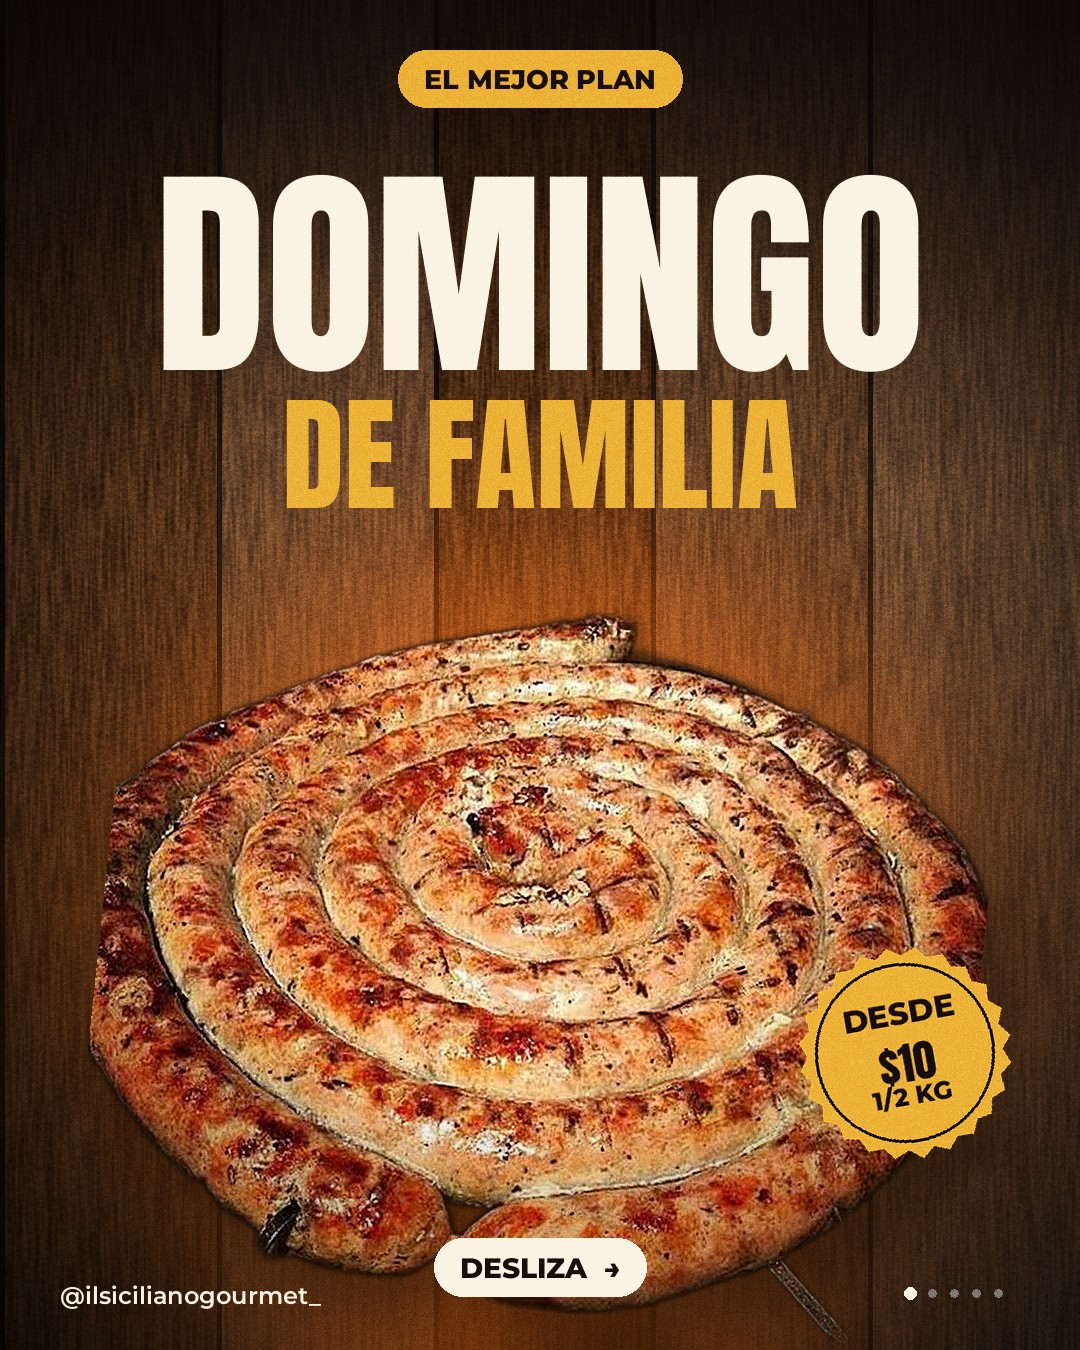
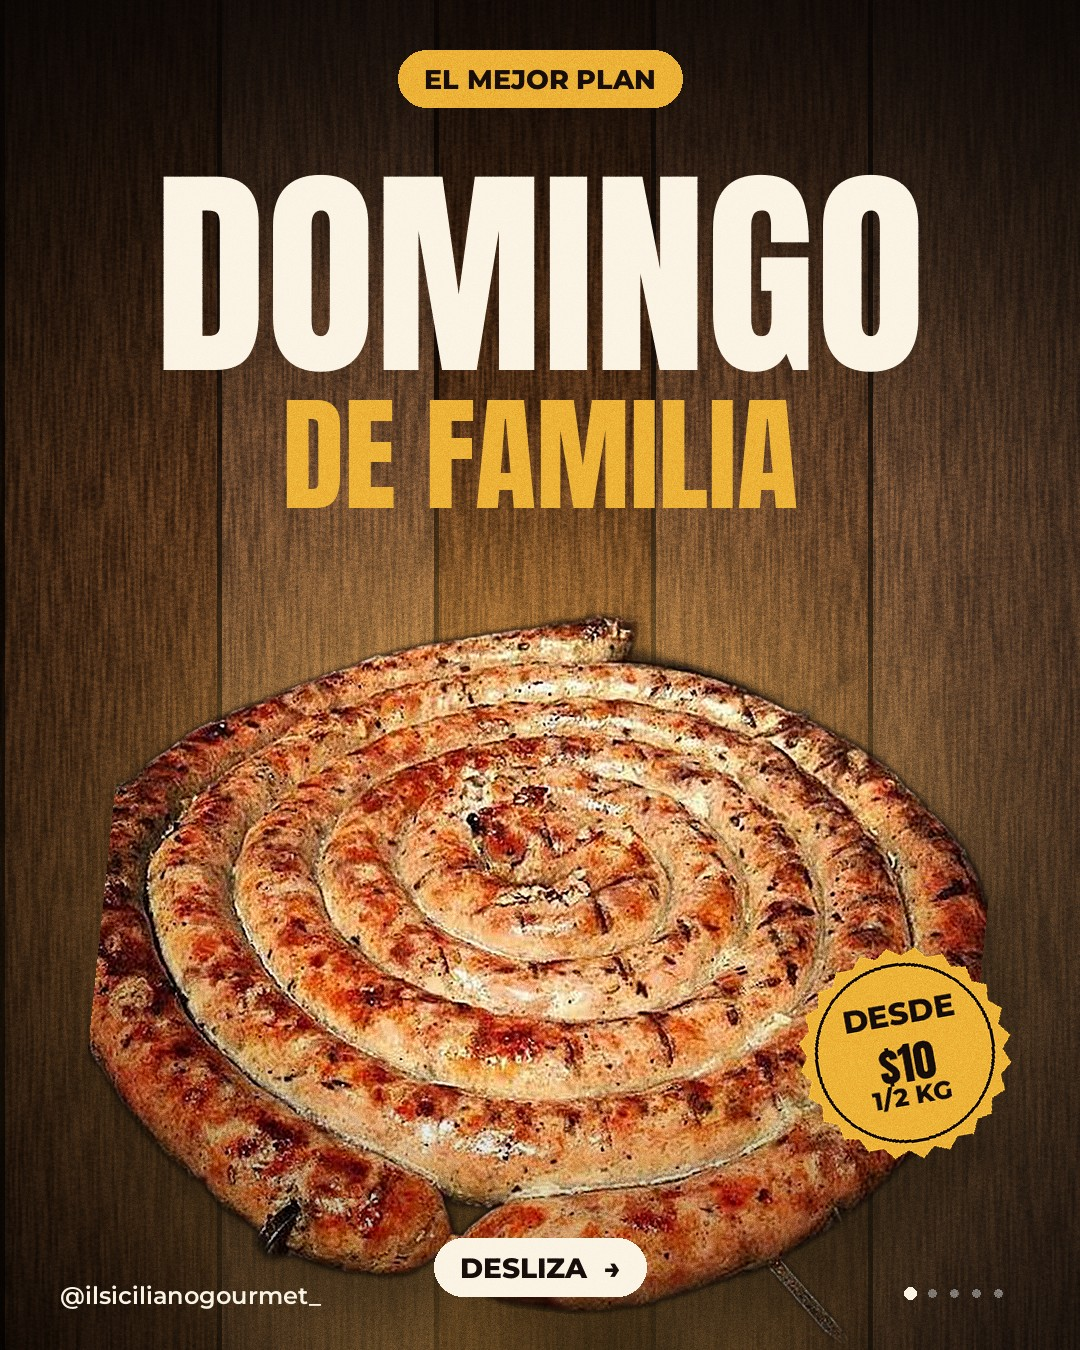
Día 5: tip de asar la espiral con diagramas
Claude-Session: https://claude.ai/code/session_01BoapLYkqJjC4bybfaGWR3T

Changed region(s): [[0.275, 0.4044, 0.7639, 0.5289]]

diff --git a/disenos.py b/disenos.py
@@ -116,7 +116,7 @@ def espiral_cutout(ancho_px, ang=-6):
 def portada_parrilla(l1, l2, etiqueta, sello, total, fondo="parrilla"):
     """Portada: título gigante sobre parrilla con la espiral como protagonista."""
     T, h, o = g.tt(), H(), oy()
-    b = parrilla_bg(h, ang=-14 if not T else -12) if fondo == "parrilla" else mesa_bg(h, 4)
+    b = parrilla_bg(h, ang=-14 if not T else -12) if fondo == "parrilla" else (teal_bg(h) if fondo == "teal" else mesa_bg(h, 4))
     if fondo == "parrilla":
         humo(b, h, 0, int(h * 0.3))
     d = ImageDraw.Draw(b)
@@ -124,13 +124,14 @@ def portada_parrilla(l1, l2, etiqueta, sello, total, fondo="parrilla"):
     cy_s = int(h * (0.615 if T else 0.71))
     glow = capa() if not T else Image.new("RGBA", (W, h), (0, 0, 0, 0))
     glow = Image.new("RGBA", (W, h), (0, 0, 0, 0))
-    ImageDraw.Draw(glow).ellipse((60, cy_s - 480, W - 60, cy_s + 480), fill=(255, 110, 20, 140))
+    gcol = {"parrilla": (255, 110, 20, 140), "mesa": (255, 190, 90, 110)}.get(fondo, (210, 255, 240, 95))
+    ImageDraw.Draw(glow).ellipse((60, cy_s - 480, W - 60, cy_s + 480), fill=gcol)
     b.alpha_composite(glow.filter(ImageFilter.GaussianBlur(110)))
     sp = espiral_cutout(960 if T else 880)
     pegar_producto(b, sp, (W // 2 - sp.width // 2, cy_s - sp.height // 2))
     viñeta(b, h)
     # oscurece la zona del título para que se lea
-    b.alpha_composite(degradado_v(W, h, 0, int(h * 0.36), (10, 6, 5), 190, 0))
+    b.alpha_composite(degradado_v(W, h, 0, int(h * 0.36), (10, 6, 5) if fondo != "teal" else (2, 28, 28), 190, 0))
     d = ImageDraw.Draw(b)
     pastilla(d, 0, o + (28 if T else 50), etiqueta, mont(30 if T else 27, "ExtraBold"), DORADO, OSCURO, centrado=True)
     tam = 330 if T else 225
@@ -138,7 +139,10 @@ def portada_parrilla(l1, l2, etiqueta, sello, total, fondo="parrilla"):
         tam -= 6
     centrar(d, o + (100 if T else 105), l1, anton(tam), CREMA)
     y2 = o + (100 if T else 105) + int(tam * 1.13)
-    centrar(d, y2, l2, anton(int(tam * 0.56)), DORADO)
+    t2 = int(tam * 0.56)
+    while ancho(d, l2, anton(t2)) > W - 90:
+        t2 -= 4
+    centrar(d, y2, l2, anton(t2), DORADO)
     sticker(b, sello, 890 if T else 905, int(h * (0.79 if T else 0.78)), 118 if T else 106, DORADO, OSCURO, 10)
     d = ImageDraw.Draw(b)
     if not T:
@@ -323,7 +327,22 @@ def mesa_bg(h, seed=4):
     return Image.fromarray(np.clip(img, 0, 255).astype("uint8"), "RGB").convert("RGBA")
 
 
+def teal_bg(h):
+    c, o = g.PALETAS["tip"]
+    b = g._radial(c, o, 0.5, h * 0.42, 1.1, h).convert("RGBA")
+    gr = Image.new("RGBA", (W, h), (0, 0, 0, 0))
+    gd = ImageDraw.Draw(gr)
+    for x in range(0, W, 60):
+        gd.line((x, 0, x, h), fill=(255, 255, 255, 16), width=2)
+    for y in range(0, h, 60):
+        gd.line((0, y, W, y), fill=(255, 255, 255, 16), width=2)
+    b.alpha_composite(gr)
+    return b
+
+
 def _fondo(h, fondo, seed):
+    if fondo == "teal":
+        return teal_bg(h)
     if fondo == "mesa":
         return mesa_bg(h, seed)
     if fondo == "parrilla":
@@ -511,4 +530,153 @@ def lamina_cantidades(titulo, filas, n, total, sabores=(3, 2, 1, 5)):
         y += alto + 24
     if not T:
         pie(d, CREMA, n, total)
+    return terminar(b)
+
+
+# ---------- diagramas (tips) ----------
+def _cabecera(b, num, titulo, color=None):
+    T, o = g.tt(), oy()
+    d = ImageDraw.Draw(b)
+    x = 80
+    if num is not None:
+        d.ellipse((x, o + 60, x + 120, o + 180), fill=DORADO)
+        centrar(d, o + 60 + 6, str(num), anton(100), OSCURO, x, x + 120)
+        x += 150
+    ft = anton(108 if T else 96)
+    y = o + (50 if T else 54)
+    for l in g._lineas(d, titulo, ft, W - x - 60):
+        d.text((x, y), l, font=ft, fill=CREMA); y += int(ft.size * 1.12)
+    return y
+
+
+def _cuerpo_abajo(b, cuerpo, n, total, col=CREMA):
+    T, h = g.tt(), H()
+    d = ImageDraw.Draw(b)
+    fc = mont(44 if T else 40, "SemiBold")
+    lin = g._lineas(d, cuerpo, fc, W - 160)
+    fondo = 1490 if T else h - 120
+    y = fondo - len(lin) * int(fc.size * 1.4)
+    for l in lin:
+        d.text((80, y), l, font=fc, fill=col); y += int(fc.size * 1.4)
+    if not T:
+        pie(d, col, n, total)
+    return fondo - len(lin) * int(fc.size * 1.4)
+
+
+def _pincho(b, p1, p2, grosor=18):
+    """Pincho de acero con brillo y sombra."""
+    k = 3
+    w, h = b.size
+    capa_ = Image.new("RGBA", (w * k, h * k), (0, 0, 0, 0))
+    d = ImageDraw.Draw(capa_)
+    s = lambda p: (p[0] * k, p[1] * k)
+    d.line([s((p1[0] + 10, p1[1] + 16)), s((p2[0] + 10, p2[1] + 16))], fill=(0, 0, 0, 130), width=grosor * k)
+    cap = Image.new("RGBA", (w * k, h * k), (0, 0, 0, 0))
+    sh = capa_.filter(ImageFilter.GaussianBlur(10 * k))
+    d2 = ImageDraw.Draw(cap)
+    d2.line([s(p1), s(p2)], fill=(150, 156, 162, 255), width=grosor * k)
+    d2.line([s((p1[0] - 3, p1[1] - 3)), s((p2[0] - 3, p2[1] - 3))], fill=(238, 241, 244, 255), width=int(grosor * k * 0.32))
+    for p in (p1, p2):
+        r = grosor * 0.9 * k
+        d2.ellipse((p[0] * k - r, p[1] * k - r, p[0] * k + r, p[1] * k + r), fill=(120, 126, 132, 255))
+        r2 = r * 0.55
+        d2.ellipse((p[0] * k - r2, p[1] * k - r2, p[0] * k + r2, p[1] * k + r2), fill=(222, 226, 230, 255))
+    full = Image.alpha_composite(sh, cap).resize((w, h), Image.LANCZOS)
+    b.alpha_composite(full)
+
+
+def lamina_diagrama_pinchos(num, titulo, cuerpo, n, total):
+    T, h, o = g.tt(), H(), oy()
+    b = teal_bg(h)
+    yt = _cabecera(b, num, titulo)
+    sp = espiral_cutout(620 if T else 640, 0)
+    cx, cy = W // 2, int(yt + (200 if T else 170) + sp.height / 2)
+    pegar_producto(b, sp, (cx - sp.width // 2, cy - sp.height // 2))
+    R = sp.width * 0.62
+    d45 = R * 0.7071
+    for (a, c) in (((cx - d45 - 30, cy - d45 - 30), (cx + d45 + 30, cy + d45 + 30)), ((cx + d45 + 30, cy - d45 - 30), (cx - d45 - 30, cy + d45 + 30))):
+        _pincho(b, a, c)
+    d = ImageDraw.Draw(b)
+    for k, (px, py) in enumerate([(cx - d45 - 70, cy - d45 - 70), (cx + d45 + 70, cy - d45 - 70)], 1):
+        d.ellipse((px - 34, py - 34, px + 34, py + 34), fill=DORADO)
+        centrar(d, py - 30, str(k), anton(56), OSCURO, px - 40, px + 40)
+    _cuerpo_abajo(b, cuerpo, n, total)
+    return terminar(b)
+
+
+def lamina_fuego(num, titulo, cuerpo, n, total):
+    import numpy as np
+    T, h, o = g.tt(), H(), oy()
+    b = parrilla_bg(h, ang=-8, seed=12, calor=0.55)
+    b.alpha_composite(Image.new("RGBA", (W, h), (10, 6, 5, 135)))
+    viñeta(b, h)
+    yt = _cabecera(b, num, titulo)
+    y0 = int(yt + (330 if T else 140))
+    x0, x1, alto = 90, W - 90, 92 if not T else 130
+    grad = np.zeros((alto, x1 - x0, 4), dtype="uint8")
+    cols = [(70, 160, 235), (250, 195, 50), (225, 40, 28)]
+    for x in range(x1 - x0):
+        t = x / (x1 - x0 - 1) * 2
+        i = min(int(t), 1)
+        f = t - i
+        c = [int(cols[i][k] + (cols[i + 1][k] - cols[i][k]) * f) for k in range(3)]
+        grad[:, x, :3] = c
+        grad[:, x, 3] = 255
+    barra = Image.fromarray(grad, "RGBA")
+    m = Image.new("L", barra.size, 0)
+    ImageDraw.Draw(m).rounded_rectangle((0, 0, barra.width - 1, alto - 1), alto // 2, fill=255)
+    barra.putalpha(m)
+    sh = Image.new("RGBA", b.size, (0, 0, 0, 0))
+    ImageDraw.Draw(sh).rounded_rectangle((x0, y0 + 12, x1, y0 + alto + 12), alto // 2, fill=(0, 0, 0, 130))
+    b.alpha_composite(sh.filter(ImageFilter.GaussianBlur(14)))
+    b.alpha_composite(barra, (x0, y0))
+    d = ImageDraw.Draw(b)
+    etiquetas = [("BAJO", x0 + 90), ("MEDIO", (x0 + x1) // 2), ("ALTO", x1 - 90)]
+    for et, cx_ in etiquetas:
+        centrar(d, y0 + alto + 34, et, anton(58 if T else 50), CREMA, cx_ - 150, cx_ + 150)
+    # marcador en MEDIO
+    mx = (x0 + x1) // 2
+    r = 74 if T else 64
+    d.ellipse((mx - r, y0 + alto // 2 - r, mx + r, y0 + alto // 2 + r), fill=CREMA, outline=(40, 120, 70), width=10)
+    d.line([(mx - r * 0.42, y0 + alto // 2), (mx - r * 0.1, y0 + alto // 2 + r * 0.34), (mx + r * 0.46, y0 + alto // 2 - r * 0.36)], fill=(40, 140, 80), width=14, joint="curve")
+    # X en ALTO
+    ax, ay = x1 - 90, y0 + alto // 2
+    d.ellipse((ax - 52, ay - 52, ax + 52, ay + 52), fill=CREMA)
+    d.line([(ax - 26, ay - 26), (ax + 26, ay + 26)], fill=(200, 30, 26), width=13)
+    d.line([(ax + 26, ay - 26), (ax - 26, ay + 26)], fill=(200, 30, 26), width=13)
+    pastilla(d, mx - 120, y0 - 80, "USA ESTE", mont(30, "ExtraBold"), DORADO, OSCURO, pad=28)
+    _cuerpo_abajo(b, cuerpo, n, total)
+    return terminar(b)
+
+
+def lamina_giro(num, titulo, cuerpo, n, total):
+    T, h, o = g.tt(), H(), oy()
+    b = teal_bg(h)
+    yt = _cabecera(b, num, titulo)
+    sp = espiral_cutout(520 if T else 540, 0)
+    cx, cy = W // 2, int(yt + (200 if T else 190) + sp.height / 2)
+    pegar_producto(b, sp, (cx - sp.width // 2, cy - sp.height // 2), brillo=(200, 255, 240))
+    k = 3
+    R = sp.width * 0.64
+    lay = Image.new("RGBA", (W * k, h * k), (0, 0, 0, 0))
+    ld = ImageDraw.Draw(lay)
+    box = ((cx - R) * k, (cy - R) * k, (cx + R) * k, (cy + R) * k)
+    ang0, ang1 = 130, 400
+    ld.arc(box, ang0, ang1, fill=DORADO + (255,), width=30 * k)
+    import math as _m
+    t = _m.radians(ang1)
+    px, py = cx + R * _m.cos(t), cy + R * _m.sin(t)
+    tx, ty = -_m.sin(t), _m.cos(t)     # tangente (sentido horario en pantalla)
+    nx, ny = _m.cos(t), _m.sin(t)
+    L, A = 78, 62
+    pts = [(px + tx * L, py + ty * L), (px + nx * A - tx * 14, py + ny * A - ty * 14), (px - nx * A - tx * 14, py - ny * A - ty * 14)]
+    ld.polygon([(x * k, y * k) for x, y in pts], fill=DORADO + (255,))
+    lay = lay.resize((W, h), Image.LANCZOS)
+    sh = lay.filter(ImageFilter.GaussianBlur(10))
+    sh.putalpha(sh.split()[3].point(lambda v: int(v * 0.5)))
+    b.alpha_composite(sh, (8, 12))
+    b.alpha_composite(lay)
+    d = ImageDraw.Draw(b)
+    ytop = _cuerpo_abajo(b, cuerpo, n, total)
+    pastilla(d, 0, min(int(cy + R + 50), ytop - 110), "UNA SOLA VEZ", mont(40 if T else 36, "ExtraBold"), CREMA, OSCURO, pad=40, centrado=True)
     return terminar(b)

diff --git a/dia05.py b/dia05.py
@@ -1,0 +1,48 @@
+"""Día 5: Cómo asar la espiral sin que se desarme. python3 dia05.py"""
+import os
+from PIL import Image
+import generador as g
+import disenos as D
+from contenido import WA, ENTREGA
+
+ROJO = (196, 44, 26)
+
+
+def laminas():
+    esp = D.cargar("espiral.png")
+    total = 6
+    return [
+        lambda: D.portada_parrilla("ASA BIEN", "SIN QUE SE DESARME", "TIP DE PARRILLERO", ["TIP", "DE", "ASADOR"], total, fondo="teal"),
+        lambda: D.lamina_diagrama_pinchos(1, "CLAVA 2 PINCHOS EN CRUZ",
+                                          "Atraviesa la espiral por el centro con dos pinchos cruzados. Así queda firme y no se abre.", 2, total),
+        lambda: D.lamina_fuego(2, "FUEGO MEDIO, NO ALTO",
+                               "Con fuego alto se quema por fuera y queda cruda por dentro. A fuego medio se dora pareja y queda jugosa.", 3, total),
+        lambda: D.lamina_giro(3, "VOLTEA UNA SOLA VEZ",
+                              "Espera a que se dore y se despegue sola. Gírala sosteniendo los dos pinchos.", 4, total),
+        lambda: D.lamina_foto_completa(esp, 0.5, 0.45, None, "DORADA Y JUGOSA",
+                                       "Así queda. Sin romperse y con todo el sabor adentro.", 5, total, ROJO, "RESULTADO"),
+        lambda: D.lamina_cierre_parrilla("PIDE TU\nESPIRAL", ENTREGA + [WA], "PIDE DIRECTO CON NOSOTROS", total,
+                                         fotos=(3, 5, 1), fondo="teal"),
+    ]
+
+
+def render(salida="dia05_v2"):
+    for fmt, carpeta in (("ig", salida), ("tt", salida + "_tt")):
+        g.usar_formato(fmt)
+        os.makedirs(carpeta, exist_ok=True)
+        ims = []
+        for i, f in enumerate(laminas(), 1):
+            im = f()
+            im.save(f"{carpeta}/{i:02d}.jpg", quality=90)
+            ims.append(im)
+        w = 330 if fmt == "ig" else 280
+        th = [im.resize((w, int(im.height * w / im.width))) for im in ims]
+        S = Image.new("RGB", (len(th) * (w + 8), th[0].height), (20, 20, 20))
+        for k, t in enumerate(th):
+            S.paste(t, (k * (w + 8), 0))
+        S.save(f"/tmp/dia05_{fmt}.jpg", quality=85)
+        print(fmt, len(ims))
+
+
+if __name__ == "__main__":
+    render()
